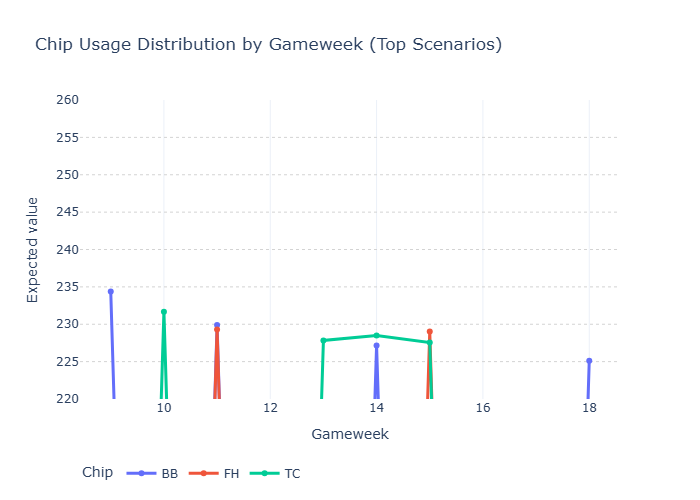
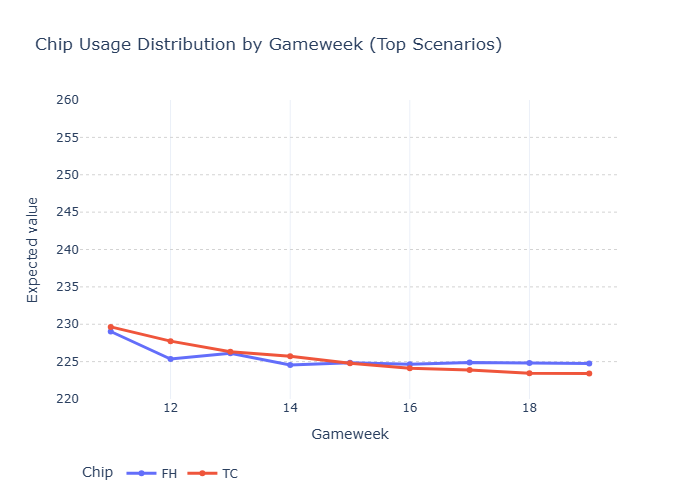
Added new post on fpl.

diff --git a/GW11_cs.md b/GW11_cs.md
@@ -1,0 +1,16 @@
+
+| chip         | score  |
+|---------------|--------:|
+| FH11, TC14    | 455.7  |
+| FH11, TC12    | 454.7  |
+| TC11, FH13    | 454.7  |
+| FH11, TC17    | 454.2  |
+| FH11, TC15    | 454.1  |
+| TC11, FH12    | 453.9  |
+| FH11, TC16    | 453.9  |
+| TC12, FH13    | 453.9  |
+| FH11, TC13    | 453.7  |
+| TC11, FH17    | 453.6  |
+
+
+![Chip performance](../assets/images/optimization_chip_per_week_EV_bar_10.png)
